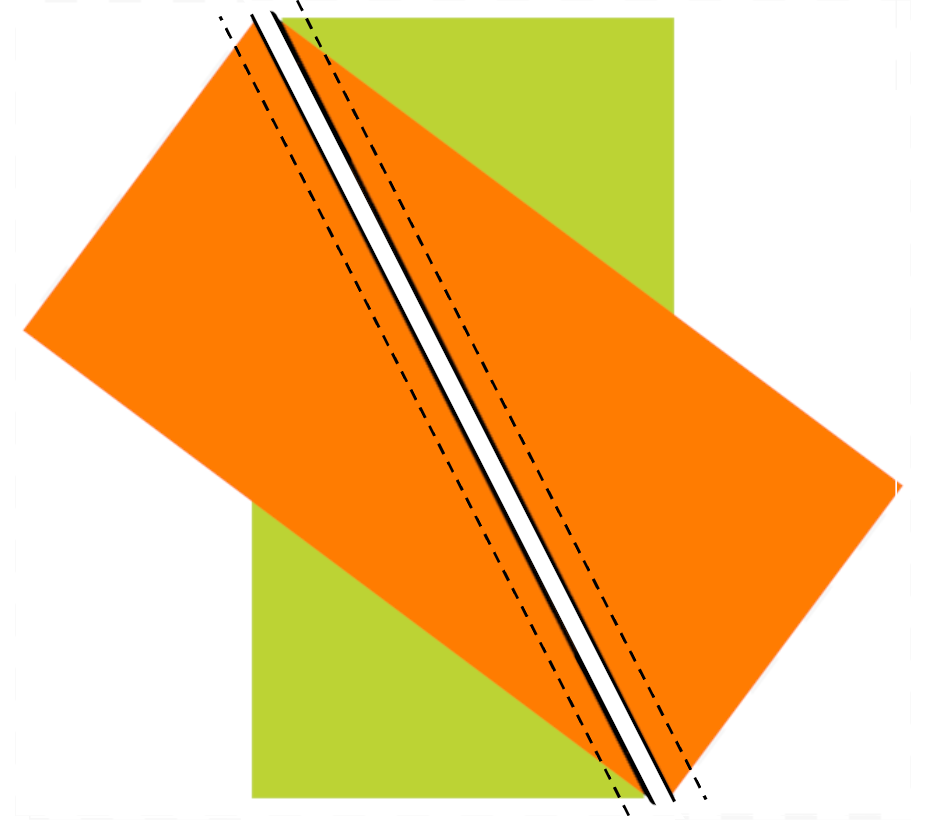
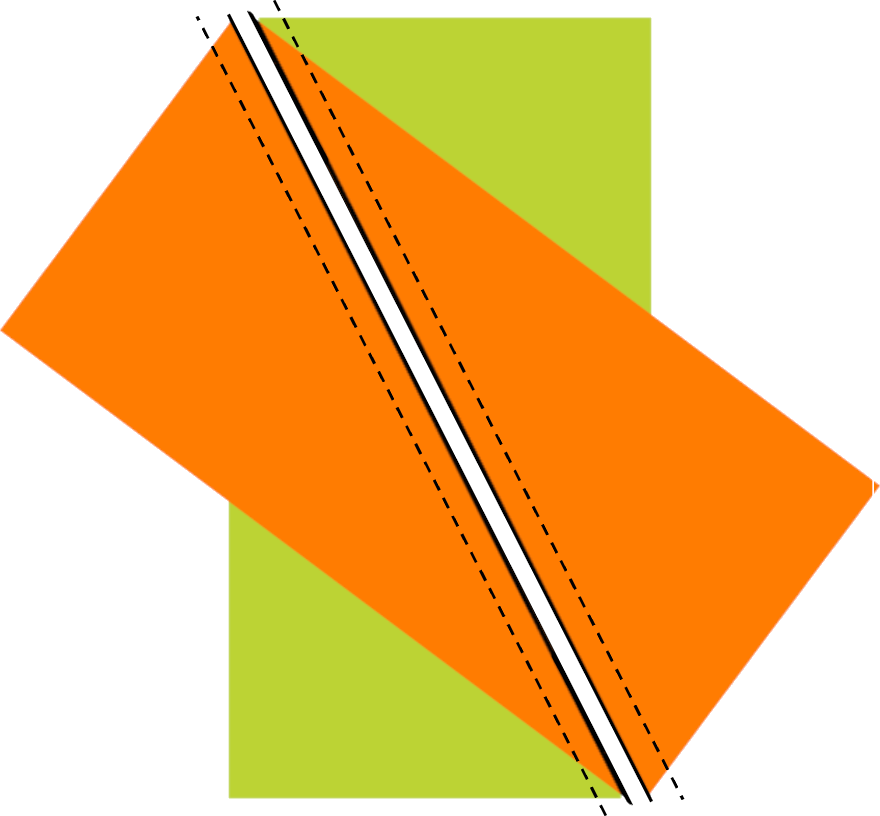
Clean up HRT tutorial image backgrounds and sizing
Remove the white backgrounds from the twisted-rectangle diagrams and
arrow, and size those diagrams by their fabric rectangle so pieces
match across steps and within the left/right sloping sequences.
Crop the ruler and trimming images so their white borders are even,
keeping the trimming steps on a shared frame.

diff --git a/src/pages/tutorials/HRTsTutorial.tsx b/src/pages/tutorials/HRTsTutorial.tsx
@@ -7,11 +7,27 @@ const TALL = "h-28 w-14 object-contain";
 const ARROW = "w-8 h-auto object-contain";
 const STEP = "w-44 h-auto object-contain shrink-0";
 
+// Twisted-rectangle diagrams: [image width, fabric rectangle short side] in source pixels.
+// Sizing by the rectangle rather than the image keeps pieces the same size across diagrams.
+const PIECES: Record<string, [number, number]> = {
+  "image13.png": [616, 255],
+  "image14.png": [552, 244],
+  "image15.png": [880, 386],
+  "image19.png": [617, 254],
+};
+const pieceWidth = (img: string, shortSide: number) => {
+  const [width, short] = PIECES[img];
+  return Math.round((width * shortSide) / short);
+};
+// Short side of the marked rectangle, matching TALL's w-14.
+const SLOPE_PIECE = 56;
+const STEP_PIECE = 64;
+
 const SlopeSequence = ({ marked, placed, result, slope }: { marked: string; placed: string; result: string; slope: string }) => (
   <div className="mt-6 flex flex-wrap items-center gap-3">
     <img src={`${IMG}${marked}`} alt={`Rectangle marked with a diagonal for ${slope} sloping HRTs`} className={TALL} loading="lazy" />
     <img src={`${IMG}image21.png`} alt="" className={ARROW} loading="lazy" />
-    <img src={`${IMG}${placed}`} alt={`Rectangles placed for ${slope} sloping HRTs`} className="h-32 w-auto object-contain" loading="lazy" />
+    <img src={`${IMG}${placed}`} alt={`Rectangles placed for ${slope} sloping HRTs`} className="h-auto max-w-full" style={{ width: pieceWidth(placed, SLOPE_PIECE) }} loading="lazy" />
     <img src={`${IMG}image21.png`} alt="" className={ARROW} loading="lazy" />
     <div className="flex gap-2">
       <img src={`${IMG}${result}`} alt={`First ${slope} sloping HRT`} className={TALL} loading="lazy" />
@@ -104,7 +120,7 @@ const HRTsTutorial = () => {
             </p>
 
             <div className="mt-6">
-              <img src={`${IMG}image13.png`} alt="Top rectangle twisted so its corners meet the drawn diagonal" className="w-40 h-auto object-contain" loading="lazy" />
+              <img src={`${IMG}image13.png`} alt="Top rectangle twisted so its corners meet the drawn diagonal" className="h-auto max-w-full" style={{ width: pieceWidth("image13.png", STEP_PIECE) }} loading="lazy" />
             </div>
 
             <p className="mt-6 text-lg text-charcoal/85">
@@ -112,7 +128,7 @@ const HRTsTutorial = () => {
             </p>
 
             <div className="mt-6">
-              <img src={`${IMG}image14.png`} alt="Rectangles sewn with two lines either side of diagonal" className="w-40 h-auto object-contain" loading="lazy" />
+              <img src={`${IMG}image14.png`} alt="Rectangles sewn with two lines either side of diagonal" className="h-auto max-w-full" style={{ width: pieceWidth("image14.png", STEP_PIECE) }} loading="lazy" />
             </div>
 
             <p className="mt-6 text-lg text-charcoal/85">
@@ -120,7 +136,7 @@ const HRTsTutorial = () => {
             </p>
 
             <div className="mt-6">
-              <img src={`${IMG}image15.png`} alt="Unit being cut along the drawn line" className="w-40 h-auto object-contain" loading="lazy" />
+              <img src={`${IMG}image15.png`} alt="Unit being cut along the drawn line" className="h-auto max-w-full" style={{ width: pieceWidth("image15.png", STEP_PIECE) }} loading="lazy" />
             </div>
 
             <p className="mt-6 text-lg text-charcoal/85">
